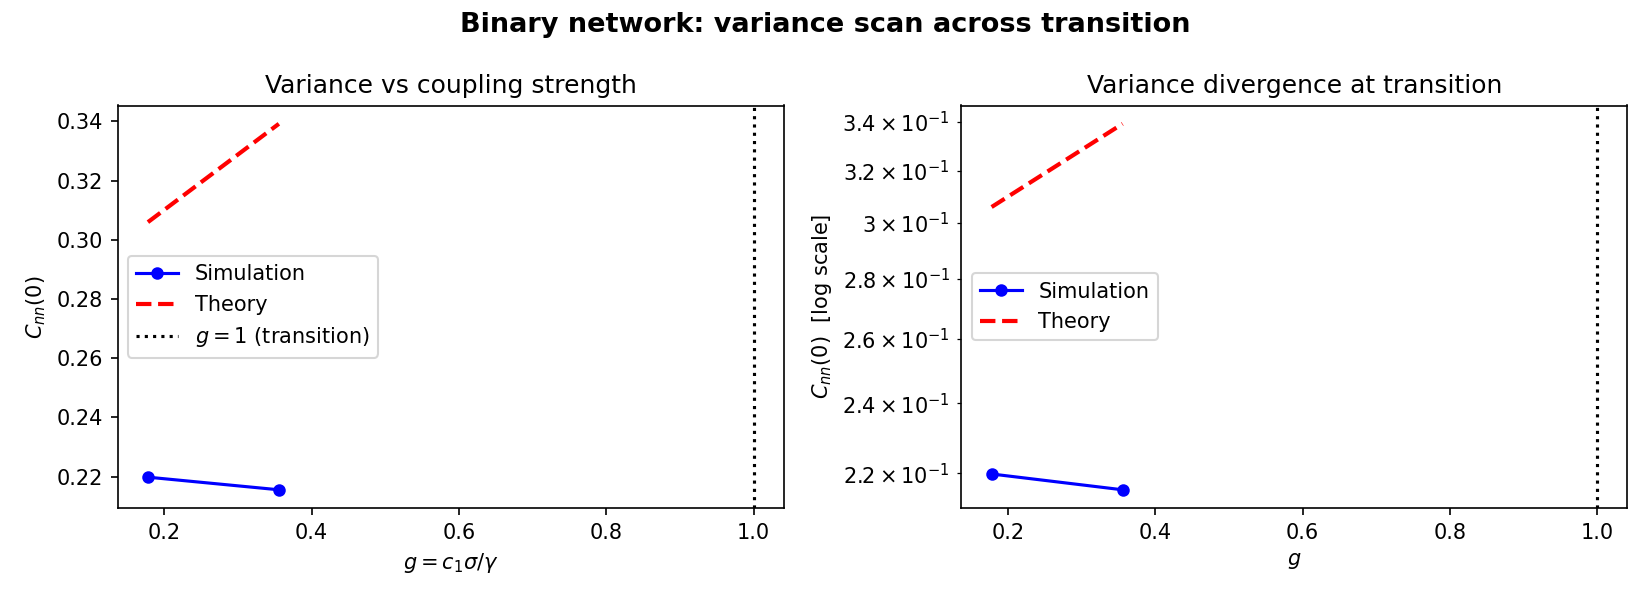
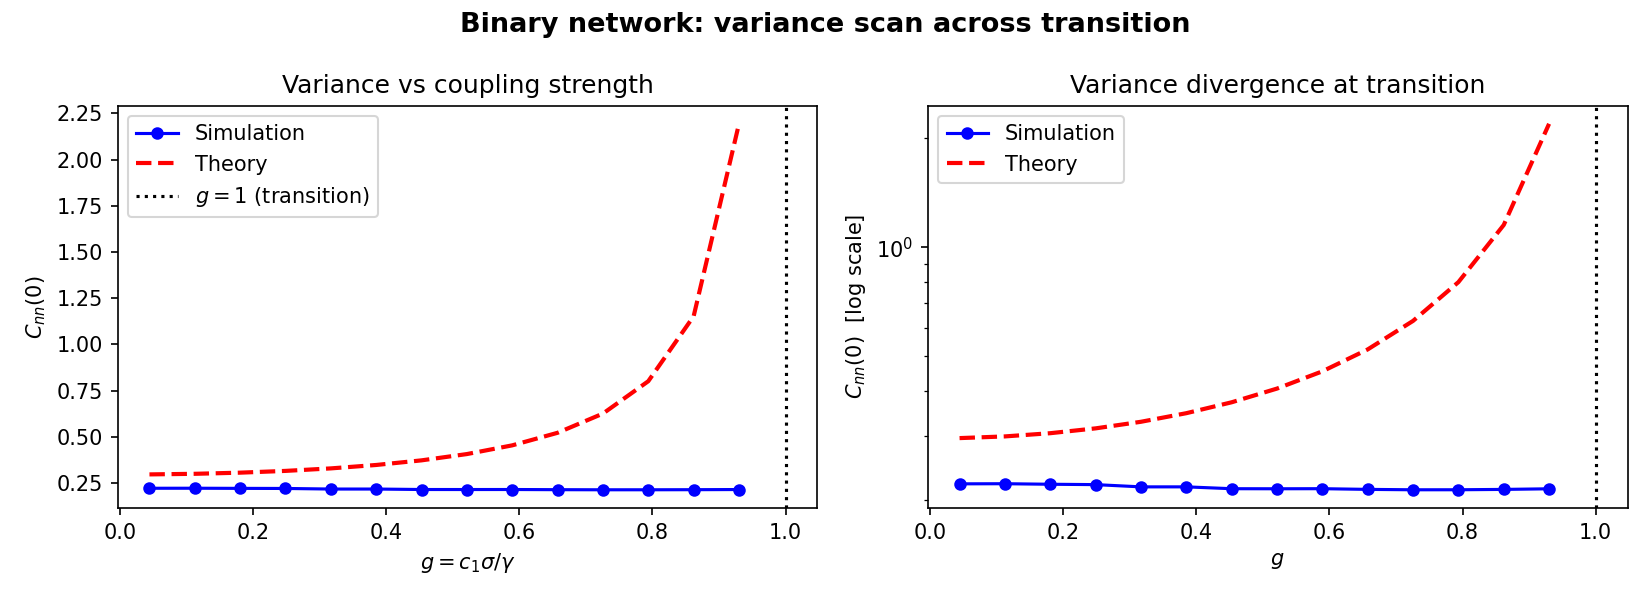
bug fixes

diff --git a/python/simulations/two_pi_random_network_tests.py b/python/simulations/two_pi_random_network_tests.py
@@ -395,27 +395,6 @@ def theory_binary_autocorr(sigma, beta, mu, f0, f1, tau_max=30, dtau=0.001):
     return tau, Cnn, Cuu, g
 
 
-def _binary_poles(sigma, beta, mu, f0, f1):
-    """Compute steady-state quantities and pole locations."""
-    gamma = mu + f0
-    n_bar = f0 / gamma
-    c1 = f1 * mu / gamma
-    D0 = 2 * n_bar * (1 - n_bar) * gamma
-    g = c1 * sigma / gamma
-    disc = (gamma**2 - beta**2) ** 2 + 4 * c1**2 * beta**2 * sigma**2
-    kp2 = 0.5 * ((gamma**2 + beta**2) + np.sqrt(disc))
-    km2 = 0.5 * ((gamma**2 + beta**2) - np.sqrt(disc))
-    return gamma, n_bar, c1, D0, g, kp2, km2
-
-
-def _binary_variance(sigma, beta, mu, f0, f1):
-    """Exact C_nn(0) for g < 1."""
-    gamma, _n_bar, c1, D0, g, _kp2, _km2 = _binary_poles(sigma, beta, mu, f0, f1)
-    if g >= 1:
-        return np.inf
-    return D0 / (gamma**2 * (1 - g**2))
-
-
 def plot_binary_network(sigma_vals=(0.5, 0.8, 0.95), N=800, beta=1.0, mu=1.0, f0=0.5, f1=1.0):
     """
     For each sigma, compare simulation vs theory.
@@ -471,74 +450,7 @@ def plot_binary_network(sigma_vals=(0.5, 0.8, 0.95), N=800, beta=1.0, mu=1.0, f0
 
 
 # -----------------------------------------------------------------------------
-# 3. TRANSITION SCAN
-#    Sweep sigma and measure C_nn(0) (variance) vs theory prediction.
-#    Should diverge as g -> 1.
-# -----------------------------------------------------------------------------
-
-def scan_transition(
-    N=600, beta=1.0, mu=1.0, f0=0.5, f1=1.0, sigma_vals=None, T=3000, dt=0.02
-):
-    """
-    Measure C_nn(0) from simulation and theory across a range of sigma.
-    The variance should diverge as g = c1*sigma/gamma -> 1.
-    """
-    if sigma_vals is None:
-        # sigma_crit = gamma/c1 = (mu+f0)^2 / (f1*mu)
-        gamma = mu + f0
-        c1 = f1 * mu / gamma
-        s_crit = gamma / c1
-        sigma_vals = np.linspace(0.1, 0.93 * s_crit, 14)
-
-    Cnn0_sim = []
-    Cnn0_th = []
-    g_vals = []
-
-    for sigma in sigma_vals:
-        _gamma, _n_bar, _c1, _D0, g, _kp2, _km2 = _binary_poles(sigma, beta, mu, f0, f1)
-        Cnn0_th.append(_binary_variance(sigma, beta, mu, f0, f1))
-        g_vals.append(g)
-
-        tau_s, Cnn_s, _ = sim_binary_network(
-            N=N, sigma=sigma, beta=beta, mu=mu, f0=f0, f1=f1, T=T, dt=dt
-        )
-        Cnn0_sim.append(Cnn_s[0])
-        print(
-            f"sigma={sigma:.3f}  g={g:.3f}  C_sim(0)={Cnn_s[0]:.4f}  C_th(0)={Cnn0_th[-1]:.4f}"
-        )
-
-    fig, axes = plt.subplots(1, 2, figsize=(11, 4))
-
-    ax = axes[0]
-    ax.plot(g_vals, Cnn0_sim, "bo-", ms=5, label="Simulation")
-    ax.plot(g_vals, Cnn0_th, "r--", lw=2, label="Theory")
-    ax.axvline(1, color="k", ls=":", lw=1.5, label="$g=1$ (transition)")
-    ax.set(
-        xlabel="$g = c_1\\sigma/\\gamma$",
-        ylabel="$C_{nn}(0)$",
-        title="Variance vs coupling strength",
-    )
-    ax.legend()
-
-    ax = axes[1]
-    ax.semilogy(g_vals, Cnn0_sim, "bo-", ms=5, label="Simulation")
-    ax.semilogy(g_vals, Cnn0_th, "r--", lw=2, label="Theory")
-    ax.axvline(1, color="k", ls=":", lw=1.5)
-    ax.set(
-        xlabel="$g$",
-        ylabel="$C_{nn}(0)$  [log scale]",
-        title="Variance divergence at transition",
-    )
-    ax.legend()
-
-    plt.suptitle("Binary network: variance scan across transition", fontsize=13, fontweight="bold")
-    plt.tight_layout()
-    plt.savefig("binary_transition_scan.png", dpi=150)
-    plt.show()
-
-
-# -----------------------------------------------------------------------------
-# 4. TWO-TIMESCALE FIT
+# 3. TWO-TIMESCALE FIT
 #    Fit the simulated C_nn(tau) to the two-exponential form
 #    A+ exp(-kappa+ tau) + A- exp(-kappa- tau) and compare with theory.
 # -----------------------------------------------------------------------------
@@ -593,7 +505,7 @@ def plot_two_timescale_fit(sigma=0.8, N=800, beta=1.0, mu=1.0, f0=0.5, f1=1.0):
         fit_curve,
         "r--",
         lw=2,
-        label=fr"Fit: $\\kappa_+={kp_fit:.3f}$, $\\kappa_-={km_fit:.3f}$",
+        label=fr"Fit: $\kappa_+={kp_fit:.3f}$, $\kappa_-={km_fit:.3f}$",
     )
     ax.axhline(0, color="k", lw=0.5)
     ax.set(
@@ -633,8 +545,5 @@ if __name__ == "__main__":
     # 2. Binary network: shape of correlation functions
     plot_binary_network(sigma_vals=(0.5, 0.8, 0.95), N=800)
 
-    # 3. Variance divergence at transition
-    scan_transition(N=600)
-
-    # 4. Two-timescale exponential fit
+    # 3. Two-timescale exponential fit
     plot_two_timescale_fit(sigma=0.8, N=800)
